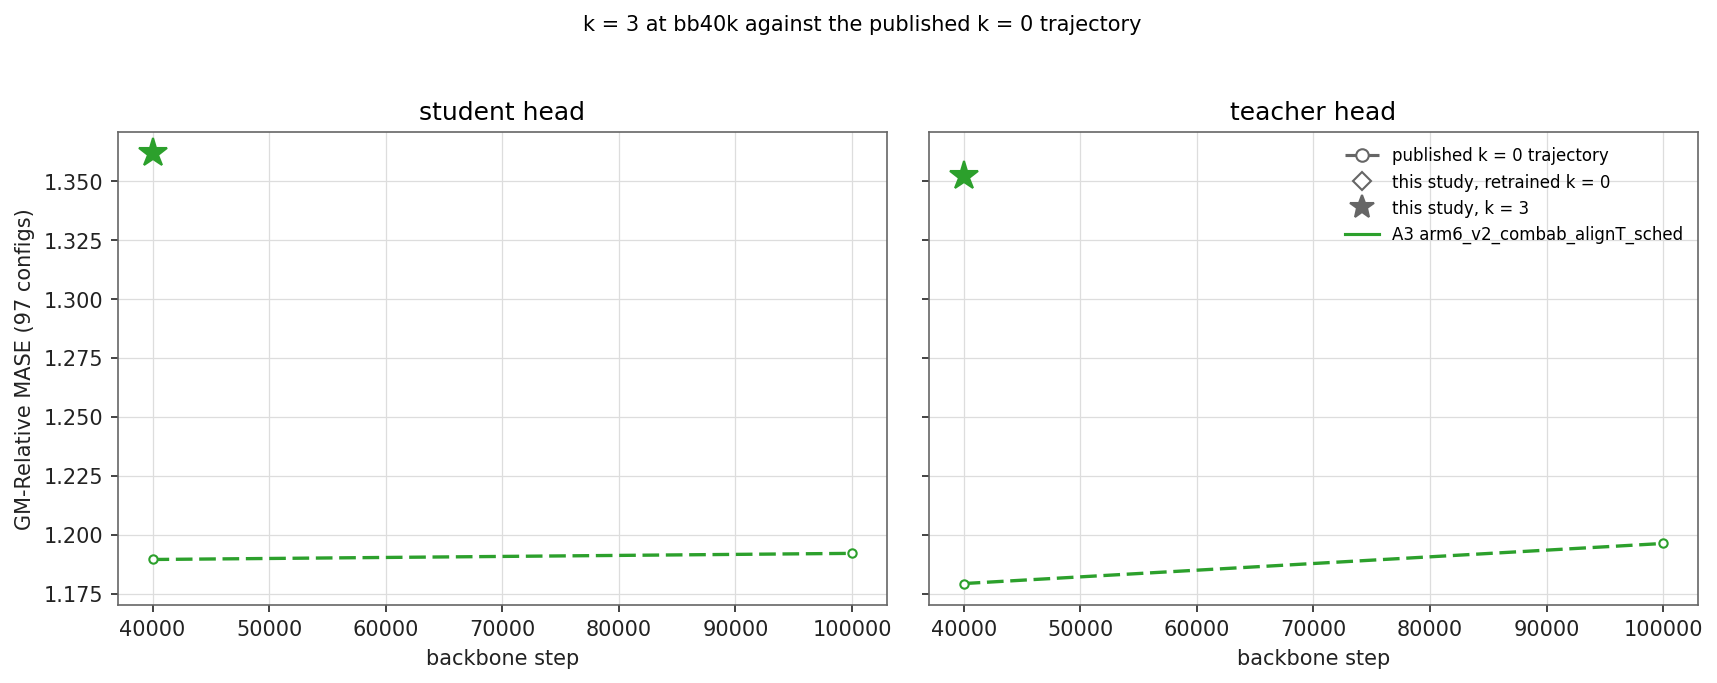
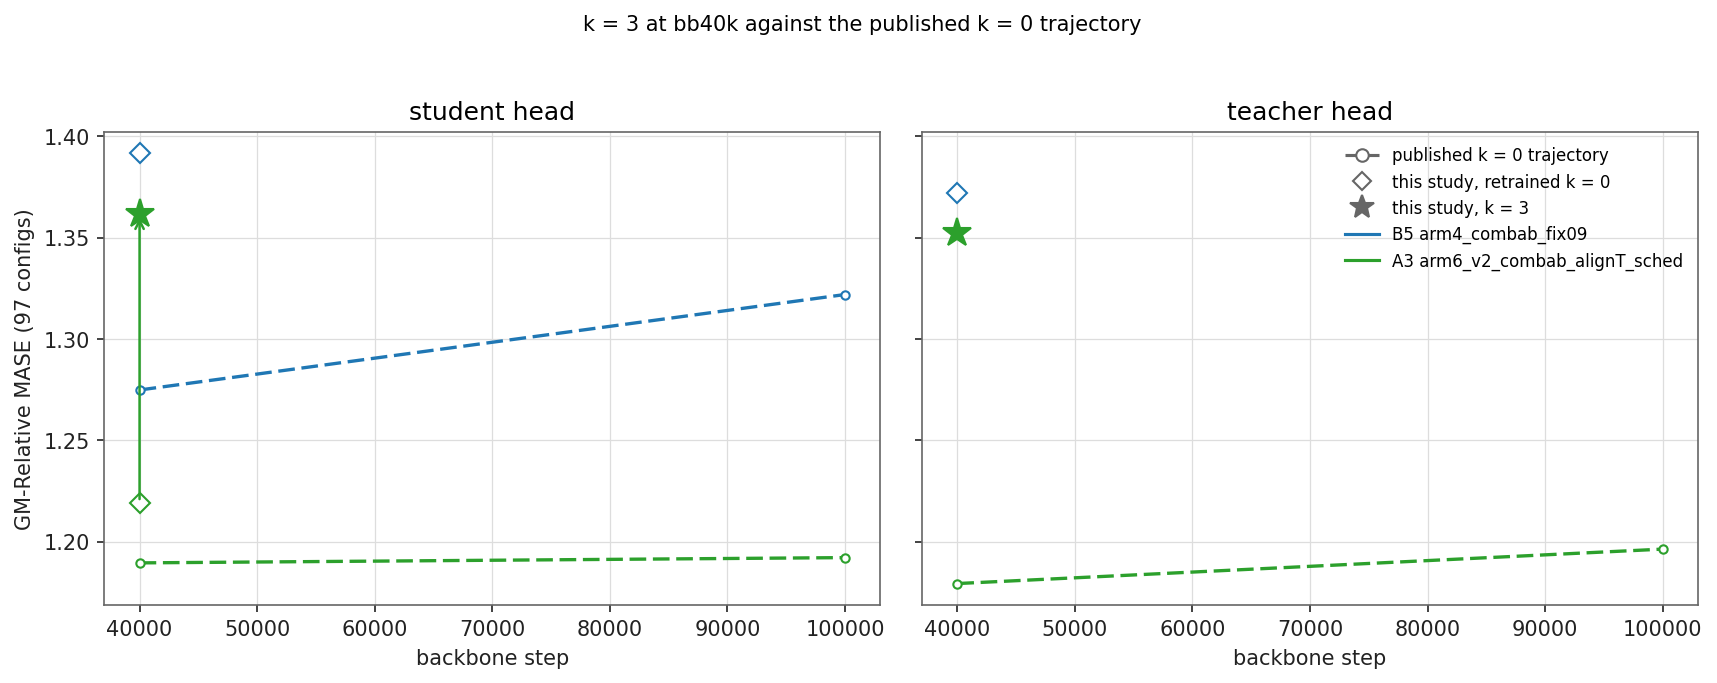
exp(#373): A3 same-code pair, with the paired cluster bootstrap
A3 (arm6_v2_combab_alignT_sched), bb40k, student head, this study's own
k = 0 against its k = 3:

  all 97       1.2189 -> 1.3618   +0.1429  95% CI [+0.0893, +0.2122]
  short 55     1.1128 -> 1.3027   +17.1%
  medium+long  1.3734 -> 1.4435   +5.1%

Worse everywhere, and three times as much on short as on medium+long. The
card's criterion (medium+long at least 5% better, short losing under 2%) is
not met.

Group-A gate: 1.2189 against a published 1.1895, |Δ| = 0.0294. Outside the
card's 0.0002 but inside the parents' pooled head-seed band of 0.0384, so
group A's published numbers are approximately reproducible where group B's
are not (0.1169).

Refs #373.

diff --git a/reports/2026-08-08_rollout_depth/results/scores.md b/reports/2026-08-08_rollout_depth/results/scores.md
@@ -2,8 +2,10 @@
 
 | cell | head | published k = 0 | this study k = 0 | k = 3 | k = 3 − k = 0 |
 |---|---|---|---|---|---|
-| A3 | student | 1.1895 | — | 1.3618 | +0.1723 |
+| A3 | student | 1.1895 | 1.2189 | 1.3618 | +0.1429 |
 | A3 | teacher | 1.1793 | — | 1.3521 | +0.1728 |
+| B5 | student | 1.2748 | 1.3917 | — | — |
+| B5 | teacher | — | 1.3719 | — | — |
 
 Head-seed band ±0.0384 (`ema_sched_ladder.md`, pooled). It bounds the head seed alone; the backbone-training spread is not measured.
 
@@ -11,12 +13,14 @@ Head-seed band ±0.0384 (`ema_sched_ladder.md`, pooled). It bounds the head seed
 
 | group | cell | head | published | retrained k = 0 | |Δ| | verdict (threshold 0.0002) |
 |---|---|---|---|---|---|---|
-| — | — | — | — | — | — | no gate has finished |
+| A | A3 | student | 1.1895 | 1.2189 | 0.0294 | FAIL |
+| B | B5 | student | 1.2748 | 1.3917 | 0.1169 | FAIL |
 
 ### Horizon split
 
 | cell | head | short k=0 | short k=3 | short Δ% | med+long k=0 | med+long k=3 | med+long Δ% | criterion |
 |---|---|---|---|---|---|---|---|---|
+| A3 | student | 1.1128 | 1.3027 | +17.1% | 1.3734 | 1.4432 | +5.1% | not met |
 
 Criterion, from the card: medium+long (42 configs) at least 5% better, short (55 configs) losing less than 2%.
 
